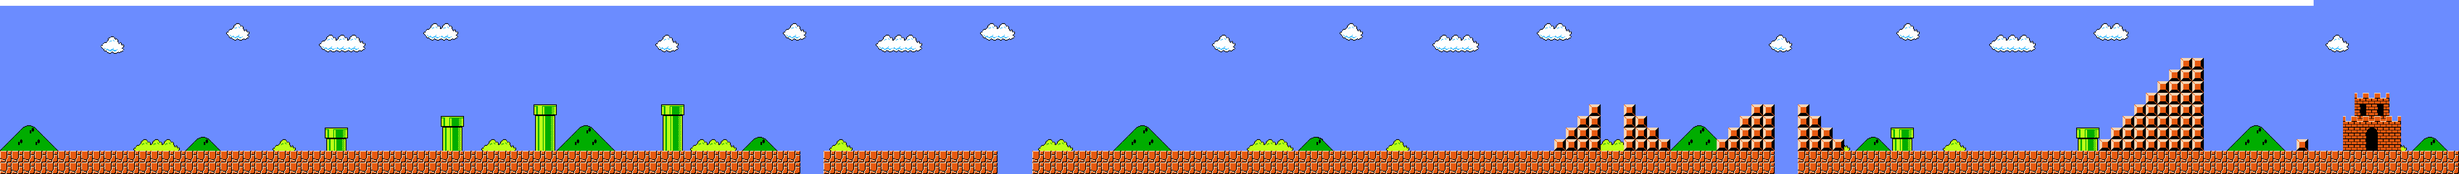
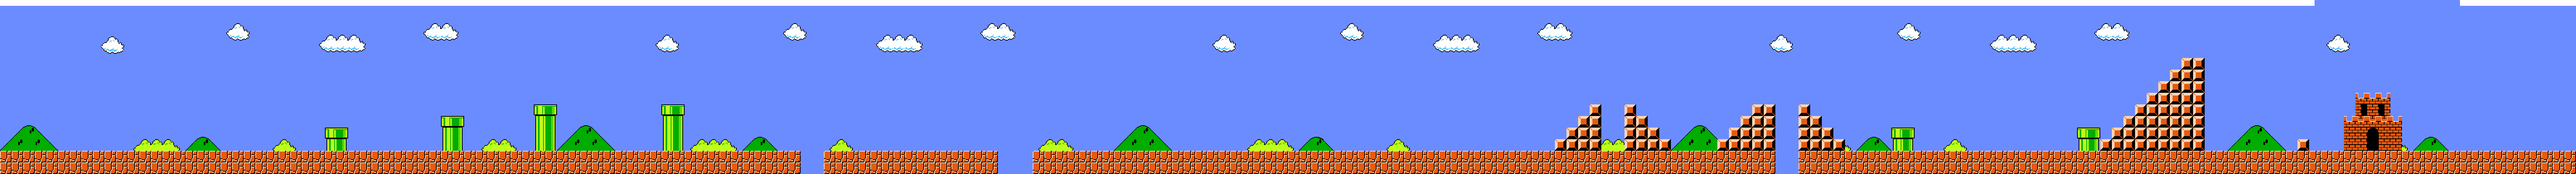
柱子实现：背景图自带柱子 填充空气砖

diff --git a/src/com/itheima/ui/BackgroundImage.java b/src/com/itheima/ui/BackgroundImage.java
@@ -8,5 +8,5 @@ public class BackgroundImage {
 	
 	public int x=0,y=0;
 	public int ox=0,oy=0;
-	public Image img=new ImageIcon("image/startBack.jpg").getImage();
+	public Image img=new ImageIcon("image/1.png").getImage();
 }
